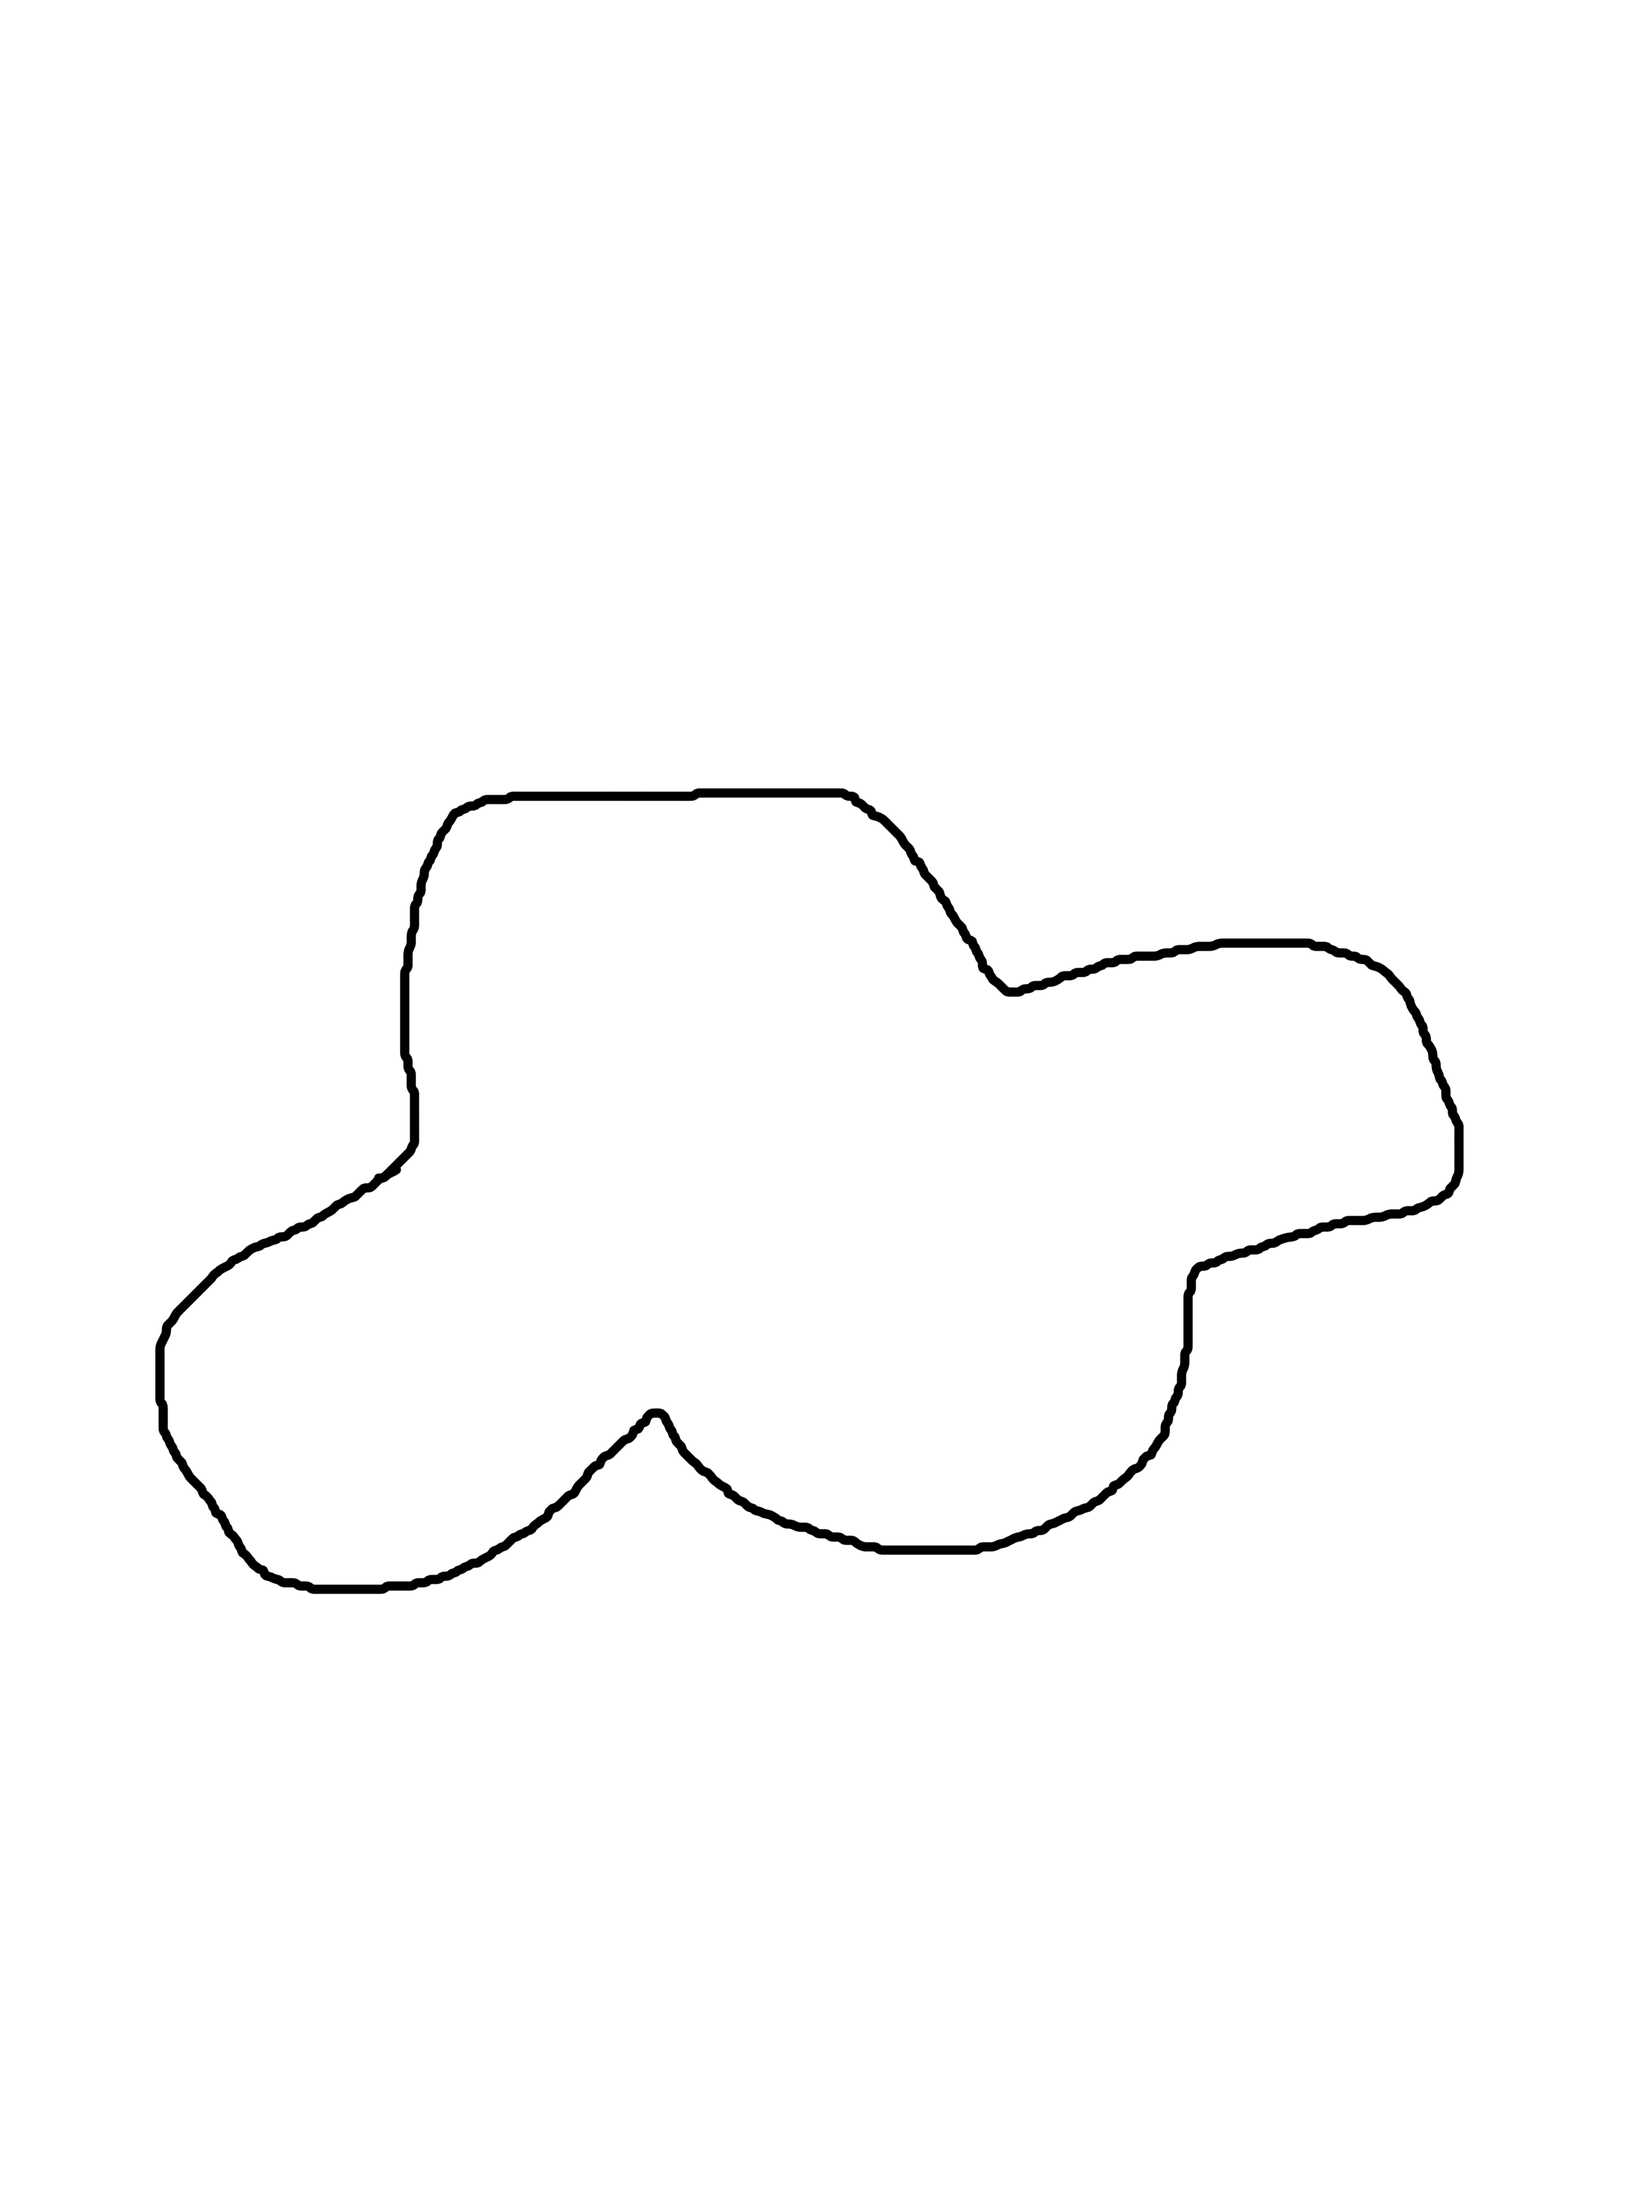
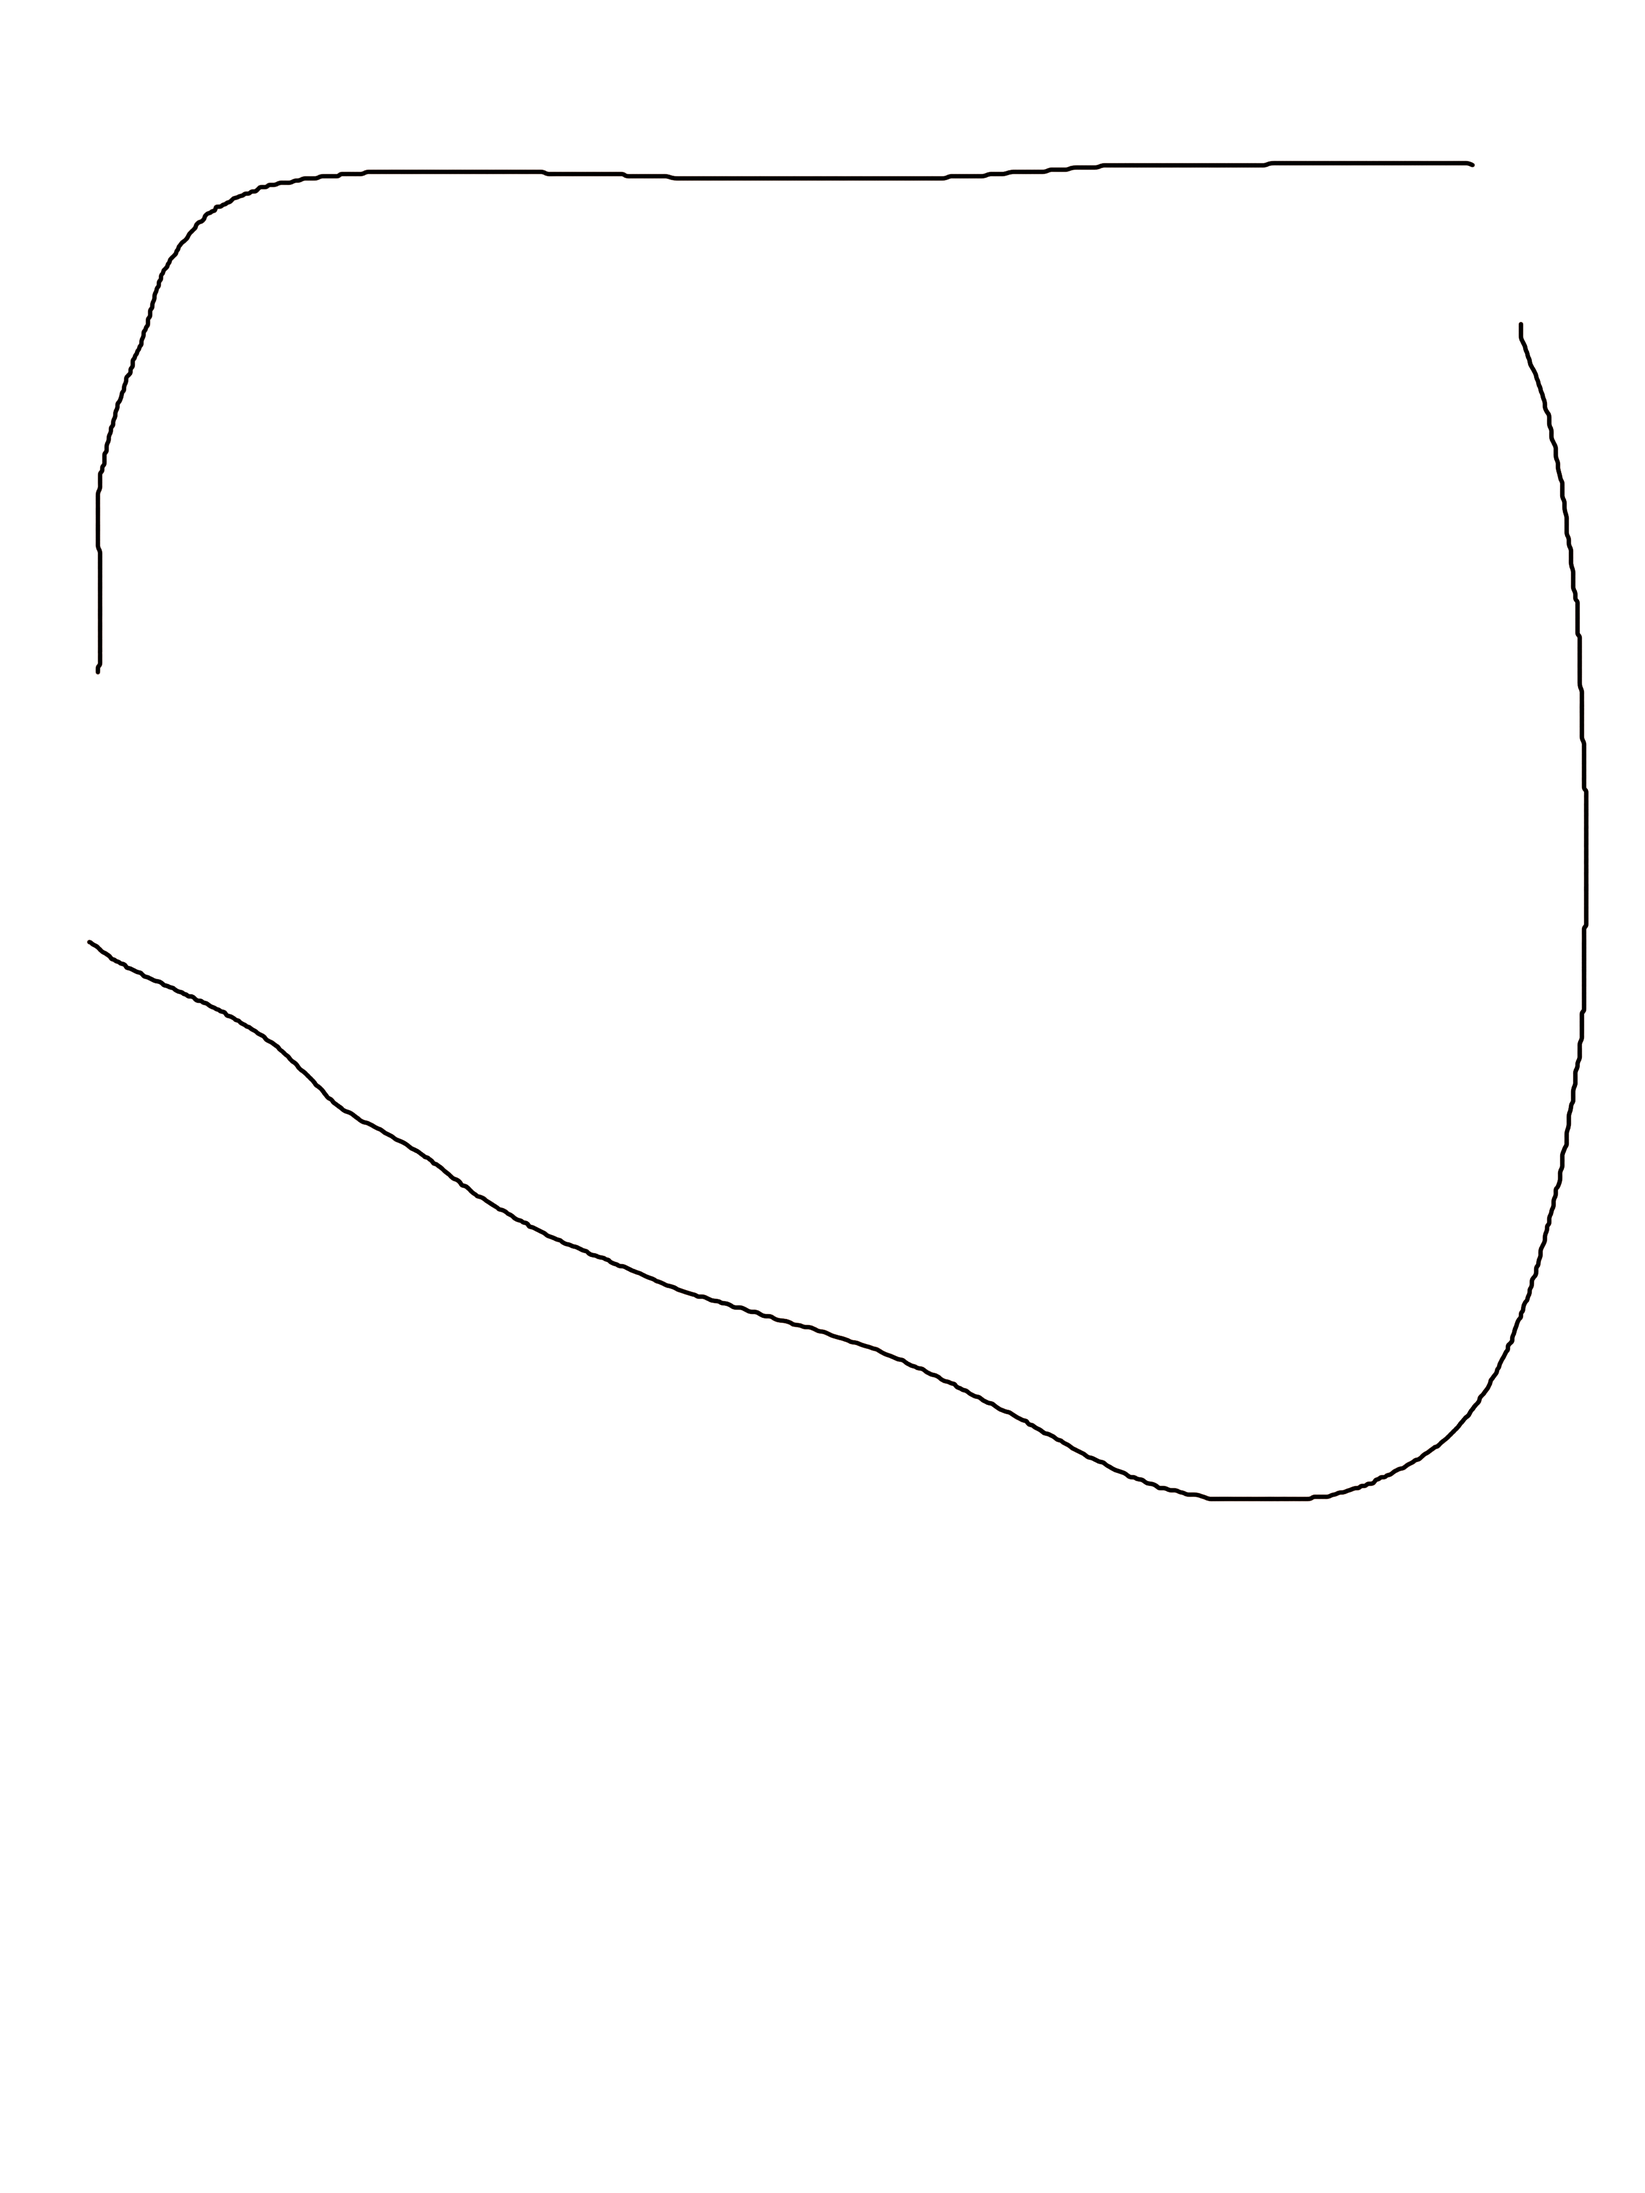
updated multithreading

diff --git a/run.py b/run.py
@@ -1,126 +1,44 @@
 import numpy as np
 import cv2 as cv
 import argparse, os, sys
+from threading import Thread
+from time import sleep
 from util import *
 
 class GraphCut:
-    def __init__(self, source, foregroundSeed, backgroundSeed, numThreads):
+    def __init__(self, source, foregroundSeed, backgroundSeed):
         self.source = source.copy()
         self.foregroundSeed = foregroundSeed
         self.backgroundSeed = backgroundSeed
-        self.minImageSize = 150000
-        self.imageSize = self.source.shape[0] * self.source.shape[1]
 
         self.iDown = [self.source]
         self.fDown = [self.foregroundSeed]
         self.bDown = [self.backgroundSeed]
 
-        self.timesDownsampled = 0
-        self.numThreads = numThreads
-
+        self.mask = None
         self.boundary = None
         self.eroded = None
         self.dilated = None
+        self.foreground = None
+        self.background = None
+        self.results = []
 
+        self.imageSize = self.source.shape[0] * self.source.shape[1]
+        self.minImageSize = 500000
+        self.timesDownsampled = 0
+        self.erodeIterations = 1
+        self.dilateIterations = 1
+
+        self.hyperOffset = 5
 
     def run(self):
+        # return self.cut(self.source, self.foregroundSeed, self.backgroundSeed)[0]
         self.downSample()
         self.boundary, self.eroded, self.dilated = self.getBoundaries()
-        self.generateBoundaryImages(self.boundary, self.eroded, self.dilated, verbose=1)
-        # self.result = self.cut(self.source, self.foregroundSeed, self.backgroundSeed)[0]
-        # writeImage("result.png", self.result)
+        self.generateBoundaryImages(self.boundary, self.eroded, self.dilated, verbose=0)
+        self.refineBoundary(self.boundary)
+        return self.source
 
-    def cut(self, image, foreground, background):
-        mask = np.ones(image.shape[:2], dtype=np.uint8) * cv.GC_PR_BGD
-        mask[foreground!=255] = cv.GC_FGD
-        mask[background!=255] = cv.GC_BGD
-
-        bgdModel = np.zeros((1, 65), dtype=np.float64)
-        fgdModel = np.zeros((1, 65), dtype=np.float64)
-
-        cv.grabCut(image,mask,None,bgdModel,fgdModel,5,cv.GC_INIT_WITH_MASK)
-        mask = np.where((mask==2)|(mask==0),0,1).astype('uint8')
-
-        return image * mask[:,:,np.newaxis], mask
-
-    def getBoundaries(self):
-        downSizedImage = self.iDown[-1]
-        downSizedForeground = self.fDown[-1]
-        downSizedBackground = self.bDown[-1]
-
-        mask = self.cut(downSizedImage, downSizedForeground, downSizedBackground)[1]
-        mask *= 255
-
-        for i in xrange(self.timesDownsampled):
-            if mask.shape[0] != self.iDown[-1 * (i + 1)].shape[0]:
-                mask = mask[:-1,:]
-            if mask.shape[1] != self.iDown[-1 * (i + 1)].shape[1]:
-                mask = mask[:,:-1]
-            mask = cv.pyrUp(mask)
-
-        # Deal with multiple segmented objects
-        kernel = np.ones((5,5), np.uint8)
-        erodedMask = cv.erode(mask, kernel, iterations=15)
-        dilatedMask = cv.dilate(mask, kernel, iterations=5)
-
-        boundary = cv.findContours(mask, cv.RETR_LIST, cv.CHAIN_APPROX_NONE)
-        erodedBoundary = cv.findContours(erodedMask, cv.RETR_LIST, cv.CHAIN_APPROX_NONE)
-        dilatedBoundary = cv.findContours(dilatedMask, cv.RETR_LIST, cv.CHAIN_APPROX_NONE)
-
-        points = boundary[0][0]
-        erodedPoints = erodedBoundary[0][0]
-        dilatedPoints = dilatedBoundary[0][0]
-
-        return points, erodedPoints, dilatedPoints
-
-
-    def splitJobs(self):
-        # offset = points.shape[0] // (self.numThreads * 4)
-        # jobs = []
-        #
-        # for i in range(offset // 2, points.shape[0], offset):
-        #     jobs.append((points[i][0][1], points[i][0][0]))
-        #
-        # for i in jobs:
-        #     combined[i[0], i[1], 0] = 0
-        #     combined[i[0], i[1], 2] = 0
-        pass
-
-    def generateBoundaryImages(self, points, erodedPoints, dilatedPoints, verbose):
-        if verbose:
-            combined = np.ones(self.source.shape, dtype=np.uint8) * 255
-
-        boundary = np.ones(self.source.shape[:2], dtype=np.uint8) * 255
-        foreground = np.ones(self.source.shape[:2], dtype=np.uint8) * 255
-        background = np.ones(self.source.shape[:2], dtype=np.uint8) * 255
-
-        for p in points:
-            # Red
-            if verbose:
-                combined[p[0][1], p[0][0], 0] = 0
-                combined[p[0][1], p[0][0], 1] = 0
-            boundary[p[0][1], p[0][0]] = 0
-
-        for p in erodedPoints:
-            # Green
-            if verbose:
-                combined[p[0][1], p[0][0], 0] = 0
-                combined[p[0][1], p[0][0], 2] = 0
-            foreground[p[0][1], p[0][0]] = 0
-
-        for p in dilatedPoints:
-            # Blue
-            if verbose:
-                combined[p[0][1], p[0][0], 1] = 0
-                combined[p[0][1], p[0][0], 2] = 0
-            background[p[0][1], p[0][0]] = 0
-
-        writeImage("_boundary.png", boundary)
-        writeImage("_foreground.png", foreground)
-        writeImage("_background.png", background)
-
-        if verbose:
-            writeImage("_combined.png", combined)
 
     def downSample(self): # Builds image pyramids
         while self.imageSize > self.minImageSize:
@@ -136,6 +54,140 @@ class GraphCut:
             self.imageSize = image.shape[0] * image.shape[1]
             self.timesDownsampled += 1
 
+    def getBoundaries(self):
+        downSizedImage = self.iDown[-1]
+        downSizedForeground = self.fDown[-1]
+        downSizedBackground = self.bDown[-1]
+
+        mask = self.cut(downSizedImage, downSizedForeground, downSizedBackground)[1]
+        mask *= 255
+
+        for i in xrange(self.timesDownsampled):
+            if mask.shape[0] != self.iDown[-1 * (i + 1)].shape[0]:
+                mask = mask[:-1,:]
+            if mask.shape[1] != self.iDown[-1 * (i + 1)].shape[1]:
+                mask = mask[:,:-1]
+            mask = cv.pyrUp(mask)
+        self.mask = mask.copy()
+
+        # TODO: Deal with multiple segmented objects
+        kernel = np.ones((5,5), np.uint8)
+        erodedMask = cv.erode(mask, kernel, iterations=self.erodeIterations)
+        dilatedMask = cv.dilate(mask, kernel, iterations=self.dilateIterations)
+
+        boundary = cv.findContours(mask, cv.RETR_LIST, cv.CHAIN_APPROX_NONE)
+        erodedBoundary = cv.findContours(erodedMask, cv.RETR_LIST, cv.CHAIN_APPROX_NONE)
+        dilatedBoundary = cv.findContours(dilatedMask, cv.RETR_LIST, cv.CHAIN_APPROX_NONE)
+
+        points = boundary[0][0]
+        erodedPoints = erodedBoundary[0][0]
+        dilatedPoints = dilatedBoundary[0][0]
+
+        return points, erodedPoints, dilatedPoints
+
+    def generateBoundaryImages(self, points, erodedPoints, dilatedPoints, verbose):
+        if verbose:
+            combined = np.ones(self.source.shape, dtype=np.uint8) * 255
+            combinedSource = self.source.copy()
+
+        boundary = np.ones(self.source.shape[:2], dtype=np.uint8) * 255
+        foreground = np.ones(self.source.shape[:2], dtype=np.uint8) * 255
+        background = np.ones(self.source.shape[:2], dtype=np.uint8) * 255
+
+        if verbose: # Red
+            for p in points:
+                combined[p[0][1], p[0][0]] = [0, 0, 255]
+                combinedSource[p[0][1], p[0][0]] = [0, 0, 255]
+                boundary[p[0][1], p[0][0]] = 0
+
+        for p in erodedPoints:
+            foreground[p[0][1], p[0][0]] = 0
+            if verbose: # Green
+                combined[p[0][1], p[0][0]] = [0, 255, 0]
+                combinedSource[p[0][1], p[0][0]] = [0, 255, 0]
+
+        for p in dilatedPoints:
+            background[p[0][1], p[0][0]] = 0
+            if verbose: # Blue
+                combined[p[0][1], p[0][0]] = [255, 0, 0]
+                combinedSource[p[0][1], p[0][0]] = [255, 0, 0]
+
+        self.foreground = foreground
+        self.background = background
+
+        if verbose:
+            writeImage("_combined.png", combined)
+            writeImage("_combinedSource.png", combinedSource)
+            writeImage("_boundary.png", boundary)
+            writeImage("_foreground.png", foreground)
+            writeImage("_background.png", background)
+
+    def refineBoundary(self, points):
+        offset = self.hyperOffset
+        jobs = []
+        numRows = self.source.shape[0]
+        numCols= self.source.shape[1]
+
+        jobID = 0
+        for i in range(offset // 2, points.shape[0], offset):
+            row = points[i][0][1]
+            col = points[i][0][0]
+
+            patch = self.source[max(0, row-offset):min(numRows, row+offset),max(0, col-offset):min(numCols, col+offset),:]
+            foregroundPatch = self.foreground[max(0, row-offset):min(numRows, row+offset),max(0, col-offset):min(numCols, col+offset)]
+            backgroundPatch = self.background[max(0, row-offset):min(numRows, row+offset),max(0, col-offset):min(numCols, col+offset)]
+
+            thread = Thread(target=self.splitJobs, args=(jobID, patch, foregroundPatch, backgroundPatch,))
+            jobs.append(thread)
+            self.results.append(None)
+            jobID += 1
+
+        for job in jobs:
+            job.start()
+
+        for job in jobs:
+            job.join()
+
+        jobID = 0
+
+        for i in range(offset // 2, points.shape[0], offset):
+            row = points[i][0][1]
+            col = points[i][0][0]
+
+            result = self.results[jobID]
+            jobID += 1
+
+            g = np.uint8(result>0) * 255
+            g = cv.cvtColor(g, cv.COLOR_BGR2GRAY)
+
+            self.mask[max(0, row-offset):min(numRows, row+offset),max(0, col-offset):min(numCols, col+offset)] = g
+
+        writeImage("yeah.png", self.mask)
+        boundary = cv.findContours(self.mask, cv.RETR_LIST, cv.CHAIN_APPROX_NONE)
+        contourIndex = np.argmax([len(x) for x in boundary[0]])
+        points = boundary[0][contourIndex]
+
+        for p in points:
+            self.source[p[0][1], p[0][0]] = [0, 0, 255]
+
+    def splitJobs(self, tID, patch, foregroundPatch, backgroundPatch):
+        self.results[tID] = self.cut(patch, foregroundPatch, backgroundPatch)[0]
+
+
+    def cut(self, image, foreground, background):
+        mask = np.ones(image.shape[:2], dtype=np.uint8) * cv.GC_PR_BGD
+        mask[foreground!=255] = cv.GC_FGD
+        mask[background!=255] = cv.GC_BGD
+
+        bgdModel = np.zeros((1, 65), dtype=np.float64)
+        fgdModel = np.zeros((1, 65), dtype=np.float64)
+
+        cv.grabCut(image,mask,None,bgdModel,fgdModel,5,cv.GC_INIT_WITH_MASK)
+        mask = np.where((mask==2)|(mask==0),0,1).astype('uint8')
+
+        return image * mask[:,:,np.newaxis], mask
+
+
 def main(args):
     source = readSource(args.s)
     foregroundSeed = readMask(args.f)
@@ -145,8 +197,10 @@ def main(args):
     assert foregroundSeed is not None
     assert backgroundSeed is not None
 
-    graphCut = GraphCut(source, foregroundSeed, backgroundSeed, 8)
-    graphCut.run()
+    graphCut = GraphCut(source, foregroundSeed, backgroundSeed)
+    result = graphCut.run()
+
+    writeImage(args.o, result)
 
 if __name__ == '__main__':
     parser = argparse.ArgumentParser()
